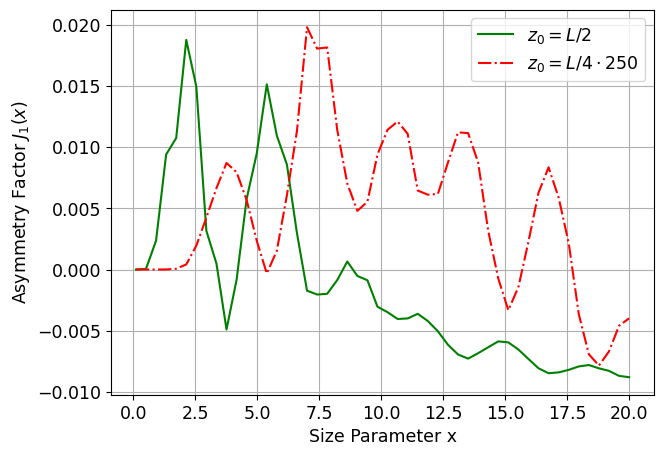
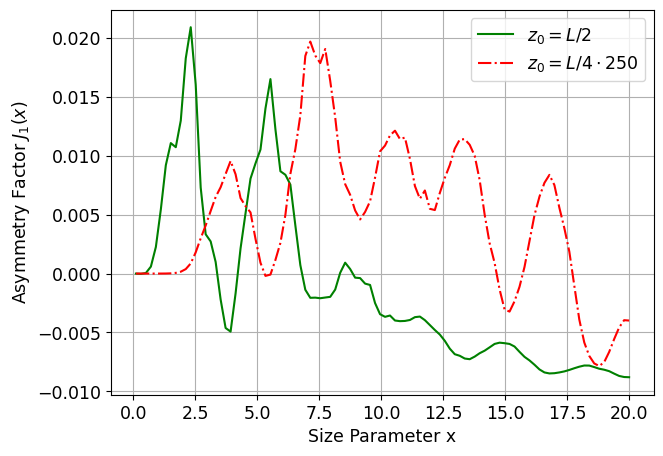
Add the first simulations with 100 points

diff --git a/Photophoretic-force/AsymmetryFactor/simulations/time_simulations/frozen_wave_v_2.py b/Photophoretic-force/AsymmetryFactor/simulations/time_simulations/frozen_wave_v_2.py
@@ -29,10 +29,10 @@ nano = 10**(-9)
 blue = '#1c8bf1'
 
 max_executions = 10
-qnt_points = 50
+qnt_points = 100
 
 # qnt_process = multiprocessing.cpu_count()
-qnt_process = 4
+qnt_process = 3
 
 path = "./outputs/time_result/FW_v2/"
 beam = "j1_frozen_wave_"
@@ -74,6 +74,9 @@ def j1_frozen_wave_with_varing_z0_values_l2_l4_G2_FW():
 
 
         with tqdm(colour=blue, total=max_executions, desc="Calculating points", leave=True) as pbar:
+            results_l2 = []
+            results_l4 = []
+            
             for e in range(max_executions):  
                 
                 startl2 = timer() 
@@ -115,4 +118,4 @@ def j1_frozen_wave_with_varing_z0_values_l2_l4_G2_FW():
 
 if __name__ == '__main__':
     print("FW_v2")
-    # j1_frozen_wave_with_varing_z0_values_l2_l4_G2_FW()
+    j1_frozen_wave_with_varing_z0_values_l2_l4_G2_FW()

diff --git a/Photophoretic-force/AsymmetryFactor/simulations/time_simulations/plane_wave.py b/Photophoretic-force/AsymmetryFactor/simulations/time_simulations/plane_wave.py
@@ -19,7 +19,7 @@ orange = '#ff6800'
 max_executions = 10
 qnt_points = 300
 
-path = "./outputs/time_result/"
+path = "./outputs/time_result/OP/"
 beam = "j1_plane_wave_"
 execution = f'and_{max_executions}_times_{qnt_points}_values_'
 version_serial = "v_1_serial"

diff --git a/Photophoretic-force/AsymmetryFactor/simulations/time_simulations/frozen_wave_v_1.py b/Photophoretic-force/AsymmetryFactor/simulations/time_simulations/frozen_wave_v_1.py
@@ -26,7 +26,7 @@ max_executions = 10
 qnt_points = 100
 
 
-path = "./outputs/time_result/"
+path = "./outputs/time_result/FW_v1/"
 beam = "j1_frozen_wave_"
 execution = f'and_{max_executions}_times_{qnt_points}_values_'
 version_serial = "v_1_serial"
